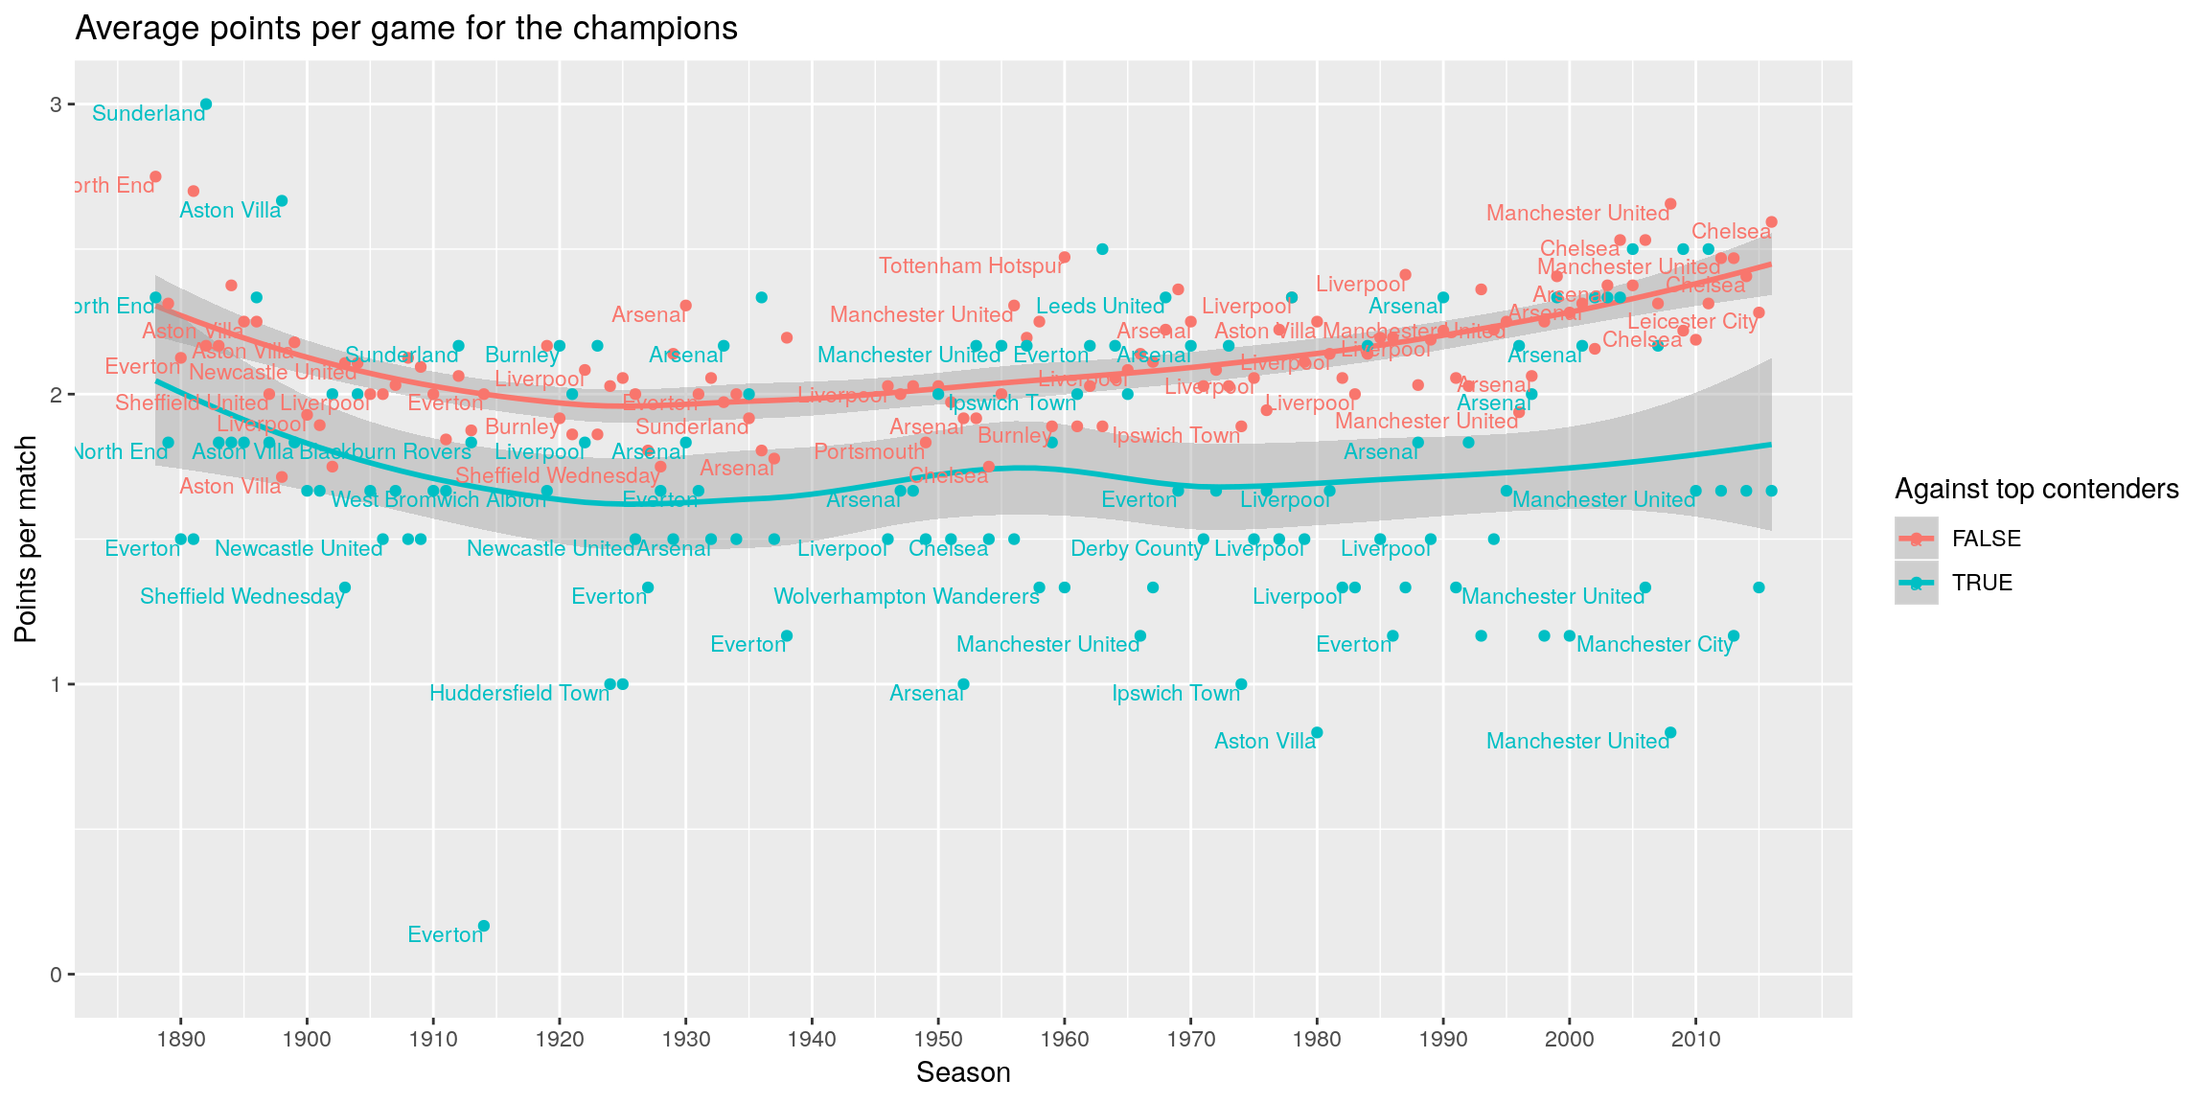
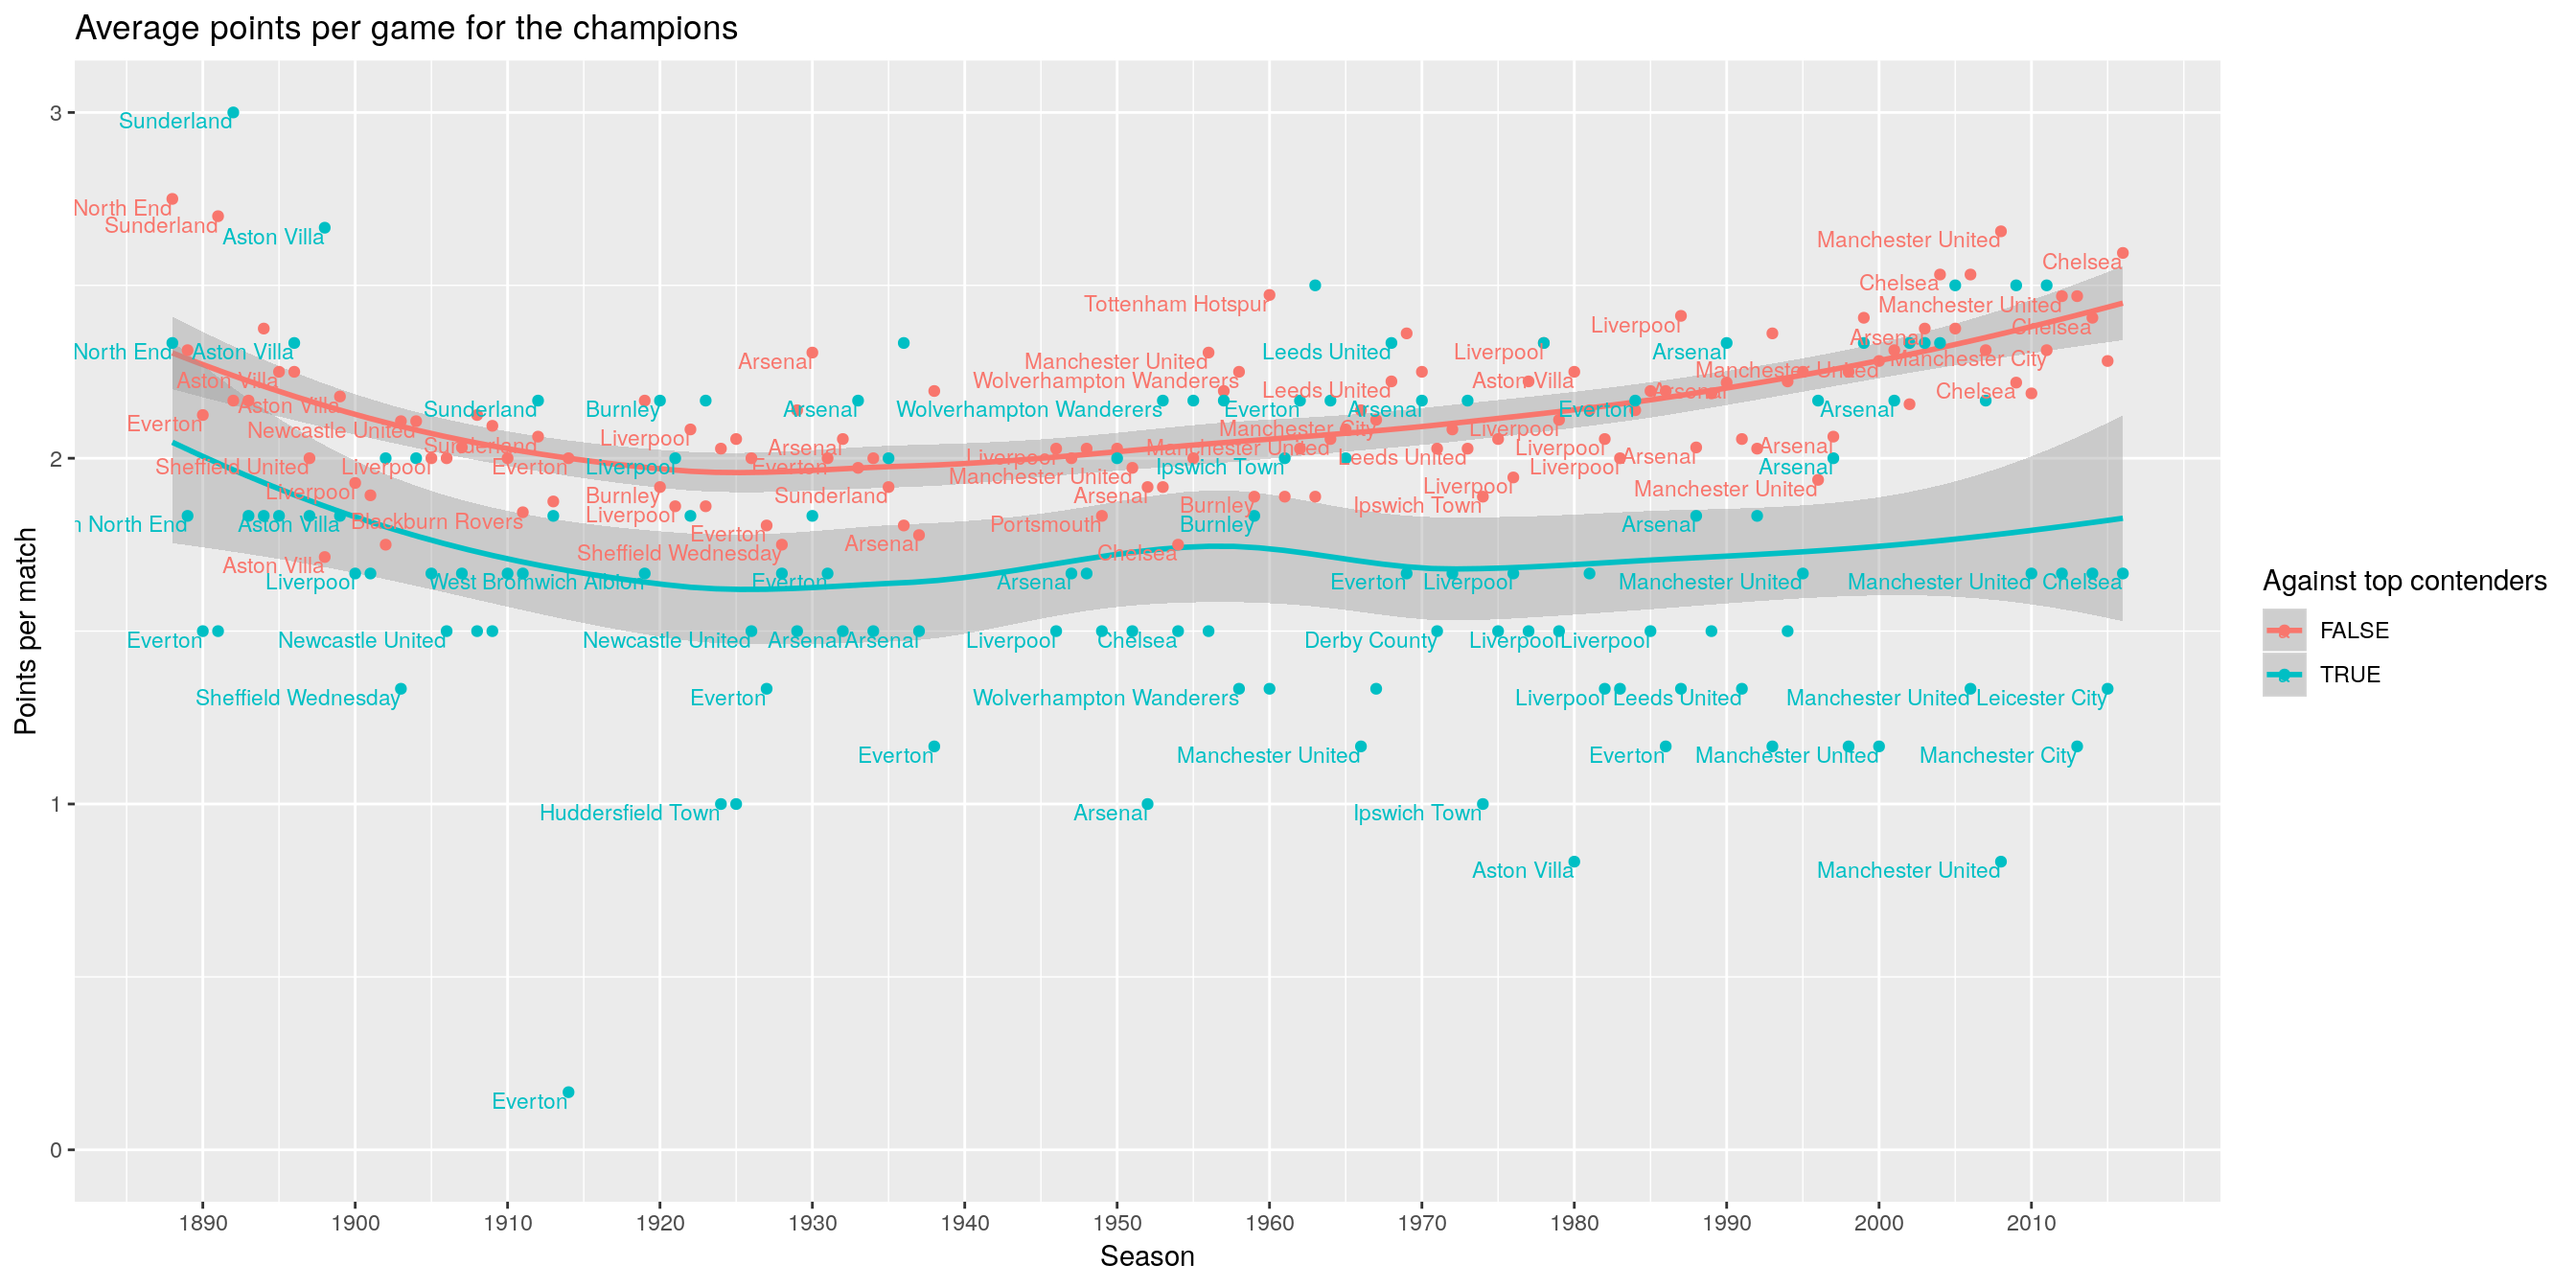
add soccer

diff --git a/public/2019/01/17/soccer-epl/index.html b/public/2019/01/17/soccer-epl/index.html
@@ -67,7 +67,7 @@
     <div class="article-content">
       <p>Recently Manchester City beat Liverpool 2-1 on Jan 3. I was pleased. My favorite team is Arsenal in English Premier League (EPL), City is the second favorite. My friend, who is a Liverpool fan, argued that championship was never decided by the head-to-head matches between title contenders. I was like, “Really?”. If a team wins consistently over weaker teams, theoretically they could win the title, even if they lost most of their head-to-head games against other top contenders. But has that happened before?</p>
 <p>Fortunately we have a data set built in to the R package “engsoccerdata”. Let’s use it to find out.</p>
-<pre class="r"><code>library(tidyverse)</code></pre>
+<pre class="r"><code>library(tidyverse, quietly = TRUE)</code></pre>
 <pre><code>## ── Attaching packages ───────────────────────────────────────────────────────────────────────────────────────────────────────────── tidyverse 1.2.1 ──</code></pre>
 <pre><code>## ✔ ggplot2 3.1.0     ✔ purrr   0.2.5
 ## ✔ tibble  2.0.0     ✔ dplyr   0.7.8
@@ -76,14 +76,14 @@
 <pre><code>## ── Conflicts ──────────────────────────────────────────────────────────────────────────────────────────────────────────────── tidyverse_conflicts() ──
 ## ✖ dplyr::filter() masks stats::filter()
 ## ✖ dplyr::lag()    masks stats::lag()</code></pre>
-<pre class="r"><code>library(engsoccerdata)
-library(lubridate)</code></pre>
+<pre class="r"><code>library(engsoccerdata, quietly = TRUE)
+library(lubridate, quietly = TRUE)</code></pre>
 <pre><code>## 
 ## Attaching package: &#39;lubridate&#39;</code></pre>
 <pre><code>## The following object is masked from &#39;package:base&#39;:
 ## 
 ##     date</code></pre>
-<pre class="r"><code>library(scales)</code></pre>
+<pre class="r"><code>library(scales, quietly = TRUE)</code></pre>
 <pre><code>## 
 ## Attaching package: &#39;scales&#39;</code></pre>
 <pre><code>## The following object is masked from &#39;package:purrr&#39;:
@@ -328,7 +328,7 @@ champs_points %&gt;%
        title = &quot;Average points per game for the champions&quot;, 
        color = &quot;Against top contenders&quot;)</code></pre>
 <pre><code>## `geom_smooth()` using method = &#39;loess&#39; and formula &#39;y ~ x&#39;</code></pre>
-<p><img src="/post/2019-01-17-epl-soccer_files/figure-html/fig1-1.png" width="1152" style="display: block; margin: auto;" /> We see most cases points are higher if opponents are not top 4. But there are exceptions. Everton in 1919, Aston Villa in 1980 and Manchester United in 2008 have average points lower than 1, meaning on average they lose to the other top 3 opponents, but the winning percentage is much higher against other opponents.</p>
+<p><img src="/post/2019-01-17-epl-soccer_files/figure-html/fig1-1.png" width="1344" style="display: block; margin: auto;" /> We see most cases points are higher if opponents are not top 4. But there are exceptions. Everton in 1919, Aston Villa in 1980 and Manchester United in 2008 have average points lower than 1, meaning on average they lose to the other top 3 opponents, but the winning percentage is much higher against other opponents.</p>
 <p>Now we label those teams who have a higher winning percentage against other top 3 teams vs. lower ranked teams:</p>
 <pre class="r"><code>champs_points %&gt;%
   arrange(Season, team, oppo_top4) %&gt;%
@@ -344,7 +344,7 @@ champs_points %&gt;%
        y = &quot;Points per match&quot;,
        title = &quot;Average points per game for the champions&quot;, 
        color = &quot;Score more against top contenders&quot;) </code></pre>
-<p><img src="/post/2019-01-17-epl-soccer_files/figure-html/fig2-1.png" width="1152" style="display: block; margin: auto;" /></p>
+<p><img src="/post/2019-01-17-epl-soccer_files/figure-html/fig2-1.png" width="1344" style="display: block; margin: auto;" /></p>
 <p>There are not so many champions won more points from top contenders than other teams on average, but there are a few. Sunderland had won all games against top 4 contenders in 1892.</p>
 <p>Overall, a team wins championship by winning bother situations. When they play against top contenders, at least they have 50% chance of winning. The expected score will be 4/3 if we consider equal chance of winning, losing, or tieing. Any champion below 4/3 against top contenders is under-performing. But acationally they won championships after losing to top contenders. Such as Mancheseter City in 2008.</p>
 <p>Now let’s see how the toughness of a match impact the probability of winning.</p>

diff --git a/content/post/2019-01-17-epl-soccer.html b/content/post/2019-01-17-epl-soccer.html
@@ -14,7 +14,7 @@ tags:
 
 <p>Recently Manchester City beat Liverpool 2-1 on Jan 3. I was pleased. My favorite team is Arsenal in English Premier League (EPL), City is the second favorite. My friend, who is a Liverpool fan, argued that championship was never decided by the head-to-head matches between title contenders. I was like, “Really?”. If a team wins consistently over weaker teams, theoretically they could win the title, even if they lost most of their head-to-head games against other top contenders. But has that happened before?</p>
 <p>Fortunately we have a data set built in to the R package “engsoccerdata”. Let’s use it to find out.</p>
-<pre class="r"><code>library(tidyverse)</code></pre>
+<pre class="r"><code>library(tidyverse, quietly = TRUE)</code></pre>
 <pre><code>## ── Attaching packages ───────────────────────────────────────────────────────────────────────────────────────────────────────────── tidyverse 1.2.1 ──</code></pre>
 <pre><code>## ✔ ggplot2 3.1.0     ✔ purrr   0.2.5
 ## ✔ tibble  2.0.0     ✔ dplyr   0.7.8
@@ -23,14 +23,14 @@ tags:
 <pre><code>## ── Conflicts ──────────────────────────────────────────────────────────────────────────────────────────────────────────────── tidyverse_conflicts() ──
 ## ✖ dplyr::filter() masks stats::filter()
 ## ✖ dplyr::lag()    masks stats::lag()</code></pre>
-<pre class="r"><code>library(engsoccerdata)
-library(lubridate)</code></pre>
+<pre class="r"><code>library(engsoccerdata, quietly = TRUE)
+library(lubridate, quietly = TRUE)</code></pre>
 <pre><code>## 
 ## Attaching package: &#39;lubridate&#39;</code></pre>
 <pre><code>## The following object is masked from &#39;package:base&#39;:
 ## 
 ##     date</code></pre>
-<pre class="r"><code>library(scales)</code></pre>
+<pre class="r"><code>library(scales, quietly = TRUE)</code></pre>
 <pre><code>## 
 ## Attaching package: &#39;scales&#39;</code></pre>
 <pre><code>## The following object is masked from &#39;package:purrr&#39;:
@@ -275,7 +275,7 @@ champs_points %&gt;%
        title = &quot;Average points per game for the champions&quot;, 
        color = &quot;Against top contenders&quot;)</code></pre>
 <pre><code>## `geom_smooth()` using method = &#39;loess&#39; and formula &#39;y ~ x&#39;</code></pre>
-<p><img src="/post/2019-01-17-epl-soccer_files/figure-html/fig1-1.png" width="1152" style="display: block; margin: auto;" /> We see most cases points are higher if opponents are not top 4. But there are exceptions. Everton in 1919, Aston Villa in 1980 and Manchester United in 2008 have average points lower than 1, meaning on average they lose to the other top 3 opponents, but the winning percentage is much higher against other opponents.</p>
+<p><img src="/post/2019-01-17-epl-soccer_files/figure-html/fig1-1.png" width="1344" style="display: block; margin: auto;" /> We see most cases points are higher if opponents are not top 4. But there are exceptions. Everton in 1919, Aston Villa in 1980 and Manchester United in 2008 have average points lower than 1, meaning on average they lose to the other top 3 opponents, but the winning percentage is much higher against other opponents.</p>
 <p>Now we label those teams who have a higher winning percentage against other top 3 teams vs. lower ranked teams:</p>
 <pre class="r"><code>champs_points %&gt;%
   arrange(Season, team, oppo_top4) %&gt;%
@@ -291,7 +291,7 @@ champs_points %&gt;%
        y = &quot;Points per match&quot;,
        title = &quot;Average points per game for the champions&quot;, 
        color = &quot;Score more against top contenders&quot;) </code></pre>
-<p><img src="/post/2019-01-17-epl-soccer_files/figure-html/fig2-1.png" width="1152" style="display: block; margin: auto;" /></p>
+<p><img src="/post/2019-01-17-epl-soccer_files/figure-html/fig2-1.png" width="1344" style="display: block; margin: auto;" /></p>
 <p>There are not so many champions won more points from top contenders than other teams on average, but there are a few. Sunderland had won all games against top 4 contenders in 1892.</p>
 <p>Overall, a team wins championship by winning bother situations. When they play against top contenders, at least they have 50% chance of winning. The expected score will be 4/3 if we consider equal chance of winning, losing, or tieing. Any champion below 4/3 against top contenders is under-performing. But acationally they won championships after losing to top contenders. Such as Mancheseter City in 2008.</p>
 <p>Now let’s see how the toughness of a match impact the probability of winning.</p>
